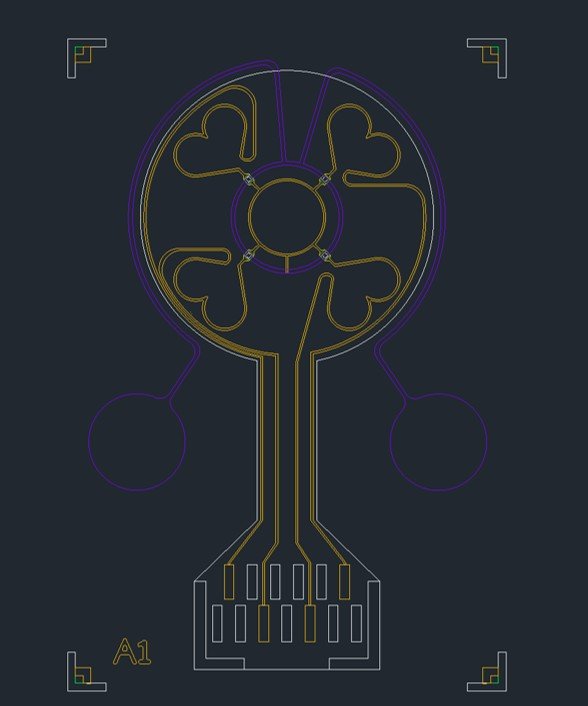
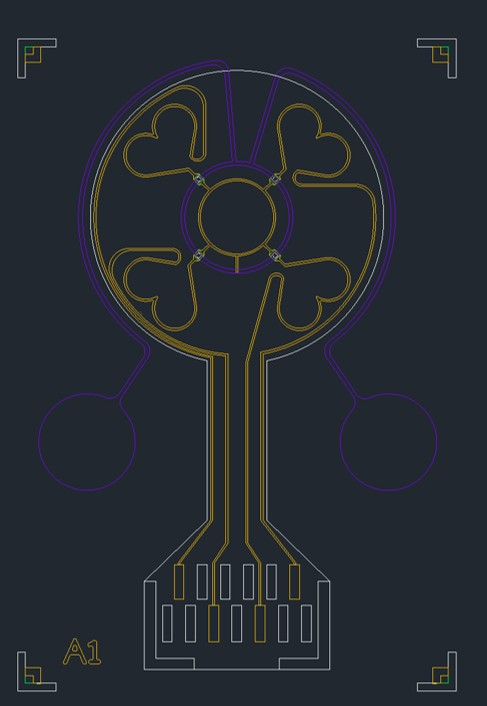
Studio: use the Daisy design as the Biosensor main photo, Clover to the gallery
Claude-Session: https://claude.ai/code/session_019XjcnZCmFjdjA7N8MMH7qV

diff --git a/index.html b/index.html
@@ -1941,14 +1941,14 @@ html.js-reveal .reveal.is-revealed { opacity: 1; transform: none; }
       results: ["Text, photos, links and projects editable without touching code", "Site published at samanthaomer.github.io"],
       tools: ["HTML", "GitHub Pages", "Claude"] },
     { title: "Biosensor", tag: "Projects", icon: "ico-sprout",
-      photo: "images/biosensor-clover.jpg",
-      gallery: [{ src: "images/biosensor-daisy.jpg", cap: "Daisy: the second design, with six sensing channels to Clover\u2019s four. Same layers \u2014 yellow metal, green glassy-carbon electrodes, white insulation openings, purple PDMS flow channel." }, { src: "images/biosensor-gate.jpg", cap: "One sensing site. Each electrode has its own source and drain, and all of them share a common source. The white square is the opening in the insulation over the gate \u2014 where NT-proBNP binds and the sensing happens." }, { src: "images/biosensor-align.jpg", cap: "How the layers line up at one sensing site, in the same colours: yellow metal, green glassy-carbon electrode, the white insulation opening over the gate, and the purple PDMS flow channel, all registered together." }, { src: "images/biosensor-wafer.jpg", cap: "How the design tiles onto the wafer: several sensors are laid out across one quarter of a wafer, with alignment marks between them, so a batch of devices comes off a single fabrication run." }],
+      photo: "images/biosensor-daisy-cover.jpg",
+      gallery: [{ src: "images/biosensor-clover.jpg", cap: "Clover: the first design, with four sensing channels to Daisy\u2019s six. Same layers \u2014 yellow metal, green glassy-carbon electrodes, white insulation openings, purple PDMS flow channel." }, { src: "images/biosensor-gate.jpg", cap: "One sensing site. Each electrode has its own source and drain, and all of them share a common source. The white square is the opening in the insulation over the gate \u2014 where NT-proBNP binds and the sensing happens." }, { src: "images/biosensor-align.jpg", cap: "How the layers line up at one sensing site, in the same colours: yellow metal, green glassy-carbon electrode, the white insulation opening over the gate, and the purple PDMS flow channel, all registered together." }, { src: "images/biosensor-wafer.jpg", cap: "How the design tiles onto the wafer: several sensors are laid out across one quarter of a wafer, with alignment marks between them, so a batch of devices comes off a single fabrication run." }],
       summary: "A biological field-effect transistor (BioFET) for detecting NT-proBNP, a heart-failure marker, from extremely small samples \u2014 using the transistor to amplify a tiny binding event into readable data, explored through two channel designs: Clover and Daisy.",
       problem: "NT-proBNP is a peptide the heart releases when its walls are stretched or strained, so its level in the blood is a key marker for diagnosing and monitoring heart failure. It circulates at very low concentrations (on the order of pg/mL), so a sensor has to pick out a faint signal from a tiny amount of target \u2014 and standard lab assays lean on sizeable samples and bench equipment, which is slow and hard to do at the point of care.",
       role: "Design: created the channel designs, with Clover and Daisy differing in the number of channels, to compare how the sample is delivered to the sensing gate.",
       results: ["Amplifies the signal from extremely small samples into readable data", "Detects NT-proBNP at reduced sample volumes", "Two channel designs, Clover and Daisy, with different channel counts, compared for sample delivery"],
       tools: ["BioFET", "AutoCAD", "COMSOL", "Microfabrication"],
-      process: ["How a BioFET senses: the transistor\u2019s gate is the sensing surface. When NT-proBNP binds to receptors on the gate, the local charge shifts, which changes the current flowing through the device. That electronic amplification turns a very small amount of captured target into a clear, readable signal, so far less sample is needed than a conventional assay.", "Clover and Daisy: two channel designs I made with different numbers of sensing channels \u2014 Clover has four, Daisy has six \u2014 to compare how the small sample is routed across the sensing gate and how the channel count affects delivery to the surface.", "Clover (shown here): four sensing channels. In the layout, yellow is the metal, green the glassy-carbon electrodes, white the insulation layer and purple the PDMS flow channel. (More images of each layer, and how they stack, to come.)"],
+      process: ["How a BioFET senses: the transistor\u2019s gate is the sensing surface. When NT-proBNP binds to receptors on the gate, the local charge shifts, which changes the current flowing through the device. That electronic amplification turns a very small amount of captured target into a clear, readable signal, so far less sample is needed than a conventional assay.", "Clover and Daisy: two channel designs I made with different numbers of sensing channels \u2014 Clover has four, Daisy has six \u2014 to compare how the small sample is routed across the sensing gate and how the channel count affects delivery to the surface.", "The colour coding, in both layouts: yellow is the metal, green the glassy-carbon electrodes, white the insulation layer and purple the PDMS flow channel. The Daisy design is shown on the card; Clover is in the gallery below."],
       next: "Add what comes next for the biosensor." }
   ];
 
